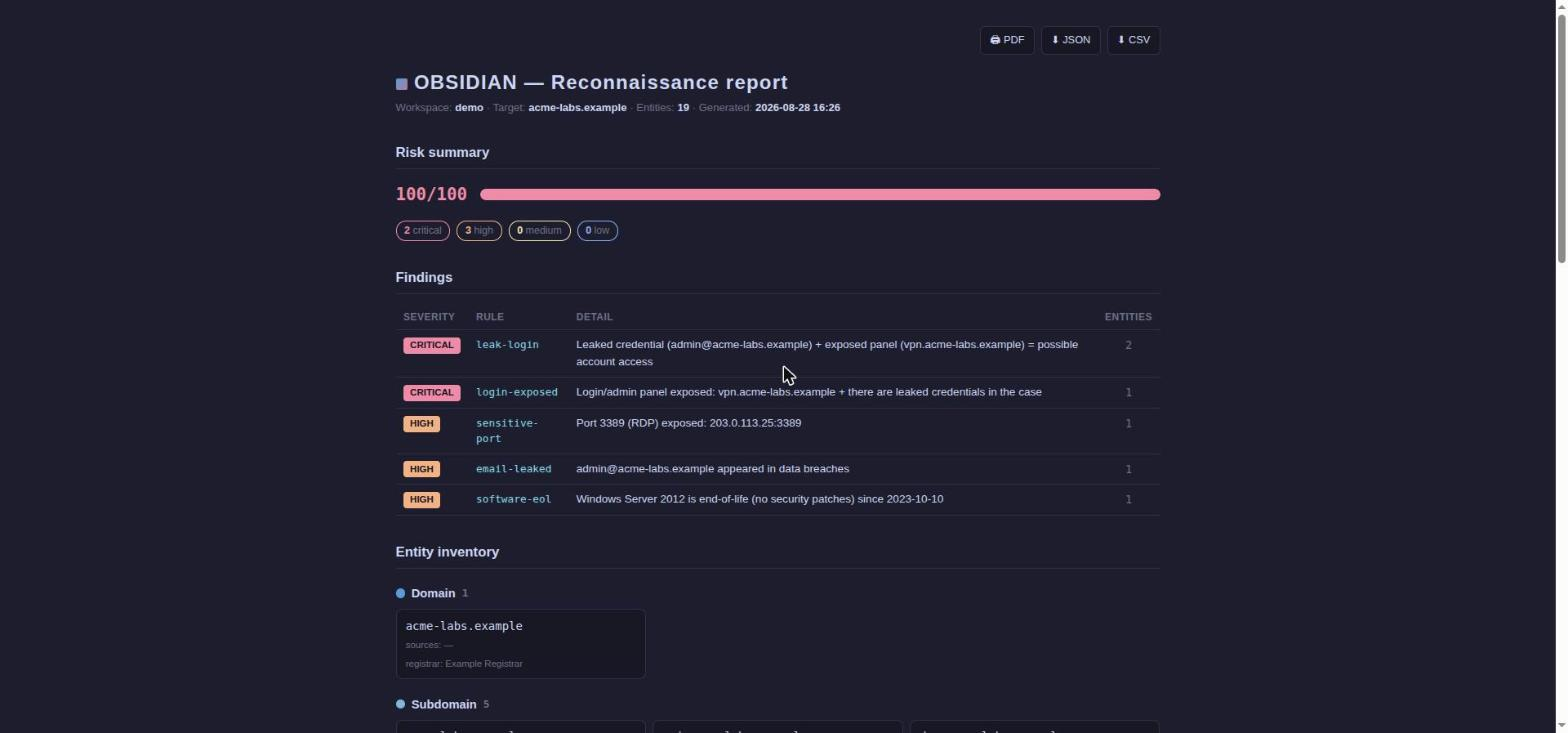
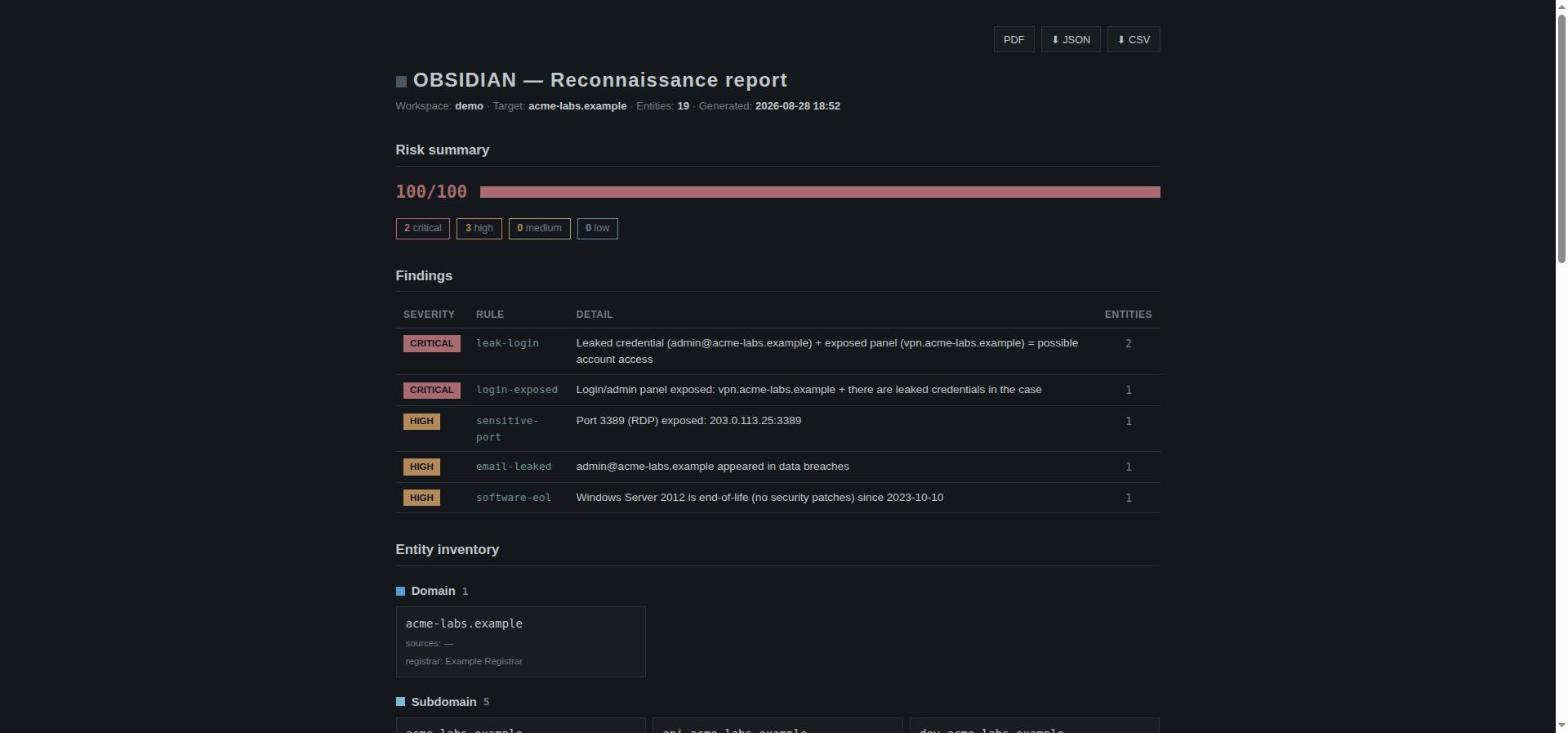
docs: refresh screenshots (dry theme) and update README (104 transforms, InternetDB, local AI model)

diff --git a/README.md b/README.md
@@ -6,8 +6,8 @@
 
 ![License: PolyForm Noncommercial](https://img.shields.io/badge/license-PolyForm%20NC%201.0.0-blue)
 ![Python 3.14](https://img.shields.io/badge/python-3.14-3776ab)
-![Tests](https://img.shields.io/badge/tests-279%20passing-brightgreen)
-![Transforms](https://img.shields.io/badge/transforms-95-orange)
+![Tests](https://img.shields.io/badge/tests-293%20passing-brightgreen)
+![Transforms](https://img.shields.io/badge/transforms-104-orange)
 
 OBSIDIAN takes two ideas that already work — Maltego's model (entities you expand
 with transforms into a graph) and SpiderFoot's (typed events feeding a correlation
@@ -27,11 +27,12 @@ username, wallet, and 17 more) with a deterministic id. The same IP found by two
 different sources collapses into one node. Nothing is stored twice, and every value
 carries where it came from.
 
-**Transform engine — 95 of them.** DNS, RDAP, Certificate Transparency, subdomain
+**Transform engine — 104 of them.** DNS, RDAP, Certificate Transparency, subdomain
 enumeration, HTTP probing, screenshots, nuclei, tech and CVE lookups, breach checks,
 infostealer logs, IP reputation, favicon and TLS-cert pivots, Wayback, reverse WHOIS,
-EXIF metadata, crypto tracing, Gravatar and RDAP enrichment, end-of-life detection,
-and more. Writing a new one is a decorator and a function.
+EXIF metadata, crypto tracing, end-of-life detection, passive exposure from Shodan
+InternetDB (ports and CVEs with no key), active subnet scanning, and email/username
+footprinting (holehe, maigret, theHarvester). Writing a new one is a decorator and a function.
 
 **Interactive graph** (`/v2`). Right-click a node to run transforms on it. Per-type
 colors, filters, multi-entity pivoting, an evidence chain that shows how each datum
@@ -74,9 +75,19 @@ OBSIDIAN_PASSWORD=your_password python obsidian_web.py
 The server binds to localhost only. On first run it prints a generated password if
 you didn't set `OBSIDIAN_PASSWORD`.
 
-A few transforms lean on system tools when they're present (`dig`, `nmap`, `whois`,
-`exiftool`, `nuclei`, `tor`, and `playwright` for screenshots). None are required —
-the engine skips a transform quietly if its tool isn't installed.
+A few transforms lean on external tools when they're present (`dig`, `nmap`, `whois`,
+`exiftool`, `nuclei`, `tor`, `playwright` for screenshots, and `holehe` / `maigret` /
+`theHarvester` for account and footprint discovery). None are required — the engine
+skips a transform quietly if its tool isn't installed.
+
+The optional AI second-pass runs on a local model through [Ollama](https://ollama.com).
+For good graph analysis, pull a 7B model (a 6-8 GB GPU handles it well):
+
+```bash
+ollama pull qwen2.5:7b
+```
+
+Without Ollama the engine still works — the AI panel simply stays quiet.
 
 ### Docker
 
@@ -110,7 +121,7 @@ your machine. There is no OBSIDIAN account and no shared key.
 
 | Needs a key | What it does | Free keyless alternative already included |
 |---|---|---|
-| Shodan / Censys / ZoomEye / FOFA / Quake / Hunter / Netlas / Criminal IP / BinaryEdge | Internet search engines (ports, services, infra) | `ports` (nmap), `geo_ip`, `ip_reputation`, `ip_blocklist`, `greynoise`, `ripe_netinfo`, `ip_rdap` |
+| Shodan / Censys / ZoomEye / FOFA / Quake / Hunter / Netlas / Criminal IP / BinaryEdge | Internet search engines (ports, services, infra) | `internetdb` (Shodan's own dataset, keyless), `ports` (nmap), `geo_ip`, `ip_reputation`, `ip_blocklist`, `greynoise`, `ripe_netinfo`, `ip_rdap` |
 | HIBP | Email in data breaches | `breaches_xon` (XposedOrNot), `comb` (ProxyNova), `stealer_hudsonrock` |
 | VirusTotal | Passive DNS history of a domain | `crtsh`, `subdomains_ht`, `rdap` |
 | ViewDNS | Other domains of the same registrant | — |
